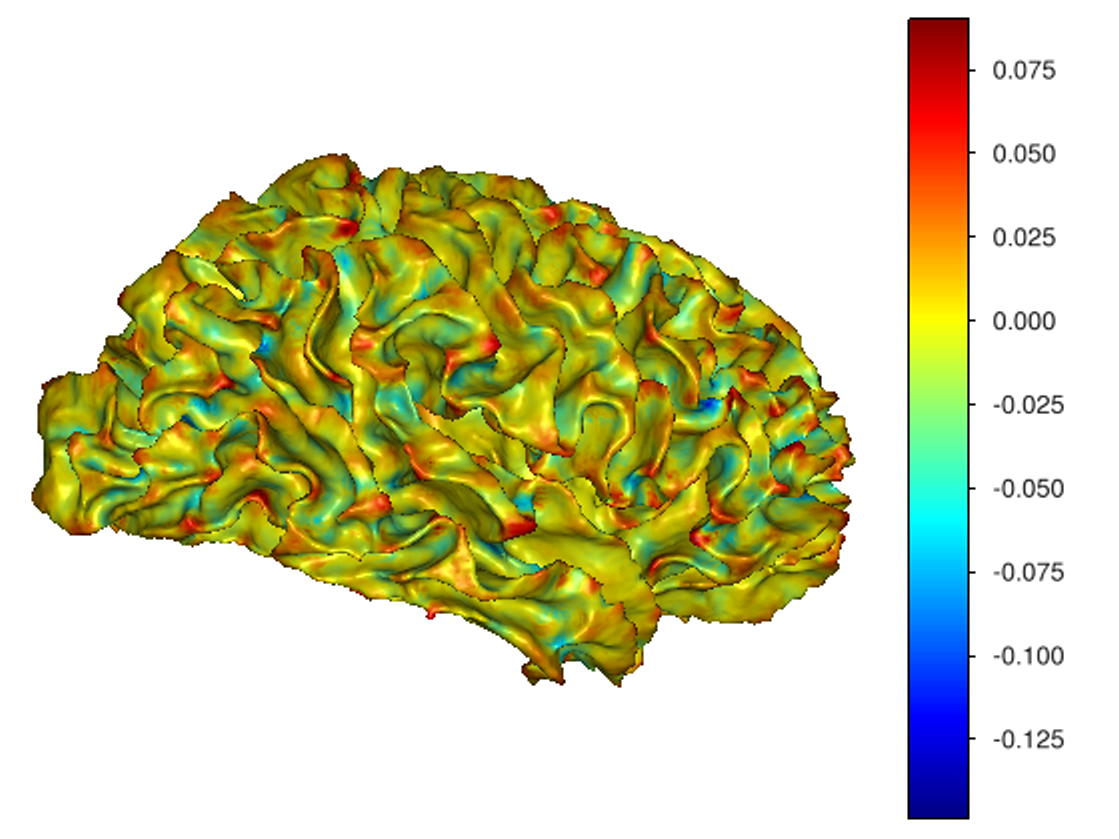
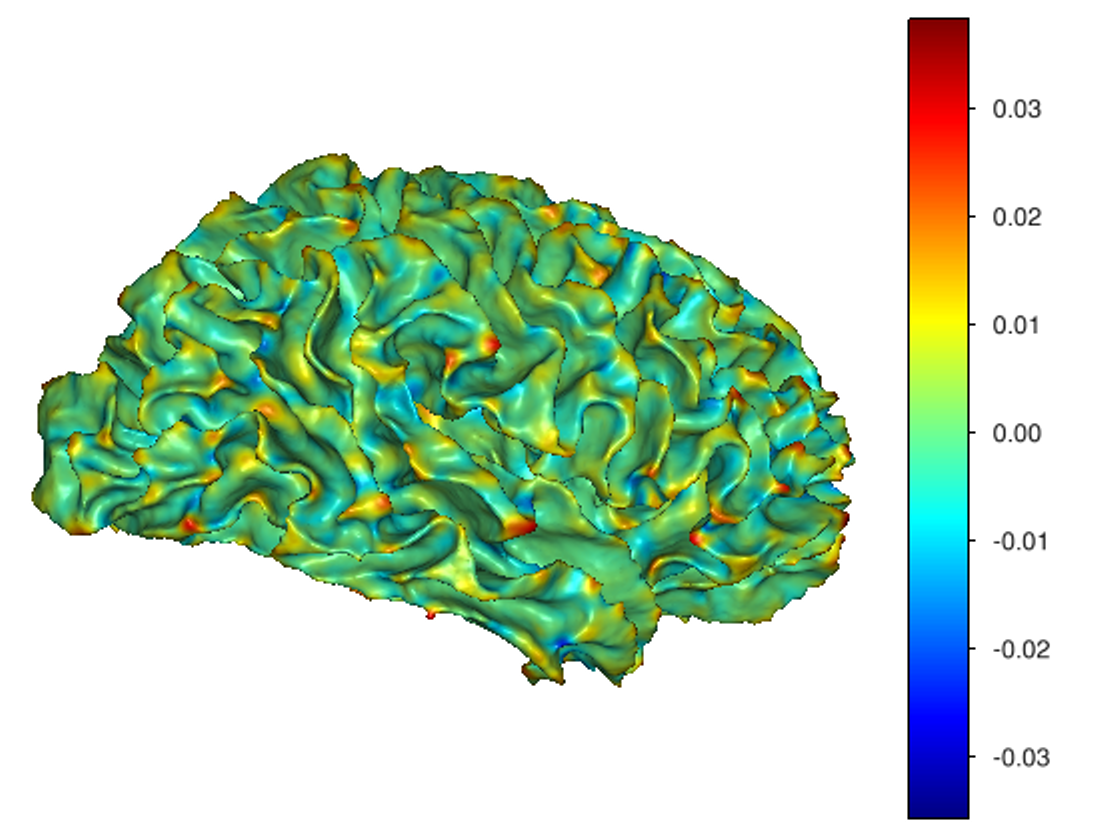
revisit Goldman's formulas

diff --git a/fast_Gaussian_curvature_3D.py b/fast_Gaussian_curvature_3D.py
@@ -110,6 +110,10 @@ def L_infinity_norm_grad(gx,gy,gz):
 def Gaussian_curvature(phi_grad,Ha):
 
     gx, gy, gz = phi_grad
+    norm = L2_norm_grad(gx,gy,gz)
+    gx /= norm
+    gy /= norm
+    gz /= norm
 
     gaussian_curv =  gx * (gx*Ha[0,0,...]+gy*Ha[1,0,...]+gz*Ha[2,0,...]) + gy * (gx*Ha[0,1,...]+gy*Ha[1,1,...]+gz*Ha[2,1,...])\
     + gz * (gx*Ha[0,2,...]+gy*Ha[1,2,...]+gz*Ha[2,2,...])
@@ -128,7 +132,7 @@ def Hessian_adjoint_curvature(phi_grad,Ha):
     curvature =  gx * (gx*Ha[0,0,...]+gy*Ha[1,0,...]+gz*Ha[2,0,...]) + gy * (gx*Ha[0,1,...]+gy*Ha[1,1,...]+gz*Ha[2,1,...])\
     + gz * (gx*Ha[0,2,...]+gy*Ha[1,2,...]+gz*Ha[2,2,...])
     np.divide(curvature,L2_norm_grad(gx,gy,gz)**3,curvature)
-    #gaussian_filter(curvature, sigma=1, output=curvature)
+
 
     return curvature
 
@@ -222,18 +226,9 @@ def display_mesh(verts, faces, normals, texture, save_path):
 
 ###    Affect texture value to each vertex by spline interpolation, for the different modes as explained in: https://docs.scipy.org/doc/scipy/reference/generated/scipy.ndimage.map_coordinates.html
 
-# def texture_spline_interpolation3D(verts, texture):
-#
-#     val = np.zeros(verts[:,0].shape)
-#     map_coordinates(texture,[verts[:,0],verts[:,1],verts[:,2]],output=val,order=2, mode='nearest')
-#
-#     return val
-
 def texture_spline_interpolation3D(verts, texture):
 
-    #val = map_coordinates(texture,[verts[:,0],verts[:,1],verts[:,2]],order=2, mode='nearest')
-
-    return map_coordinates(texture,[verts[:,0],verts[:,1],verts[:,2]],order=2, mode='nearest')
+    return map_coordinates(texture,[verts[:,0],verts[:,1],verts[:,2]],order=3, mode='nearest')
 
 
 #### Affect texture value to each vertex by averaging neighbrhood information

diff --git a/Gauss_curv_4_Freesurfer_output.py b/Gauss_curv_4_Freesurfer_output.py
@@ -121,8 +121,8 @@ if __name__ == '__main__':
     ### Affect per-vertex curvature values, by interpolation
 
     #gaussian_curv = g3D.texture_nearest_neigh_interpolation3D(verts, Gaussian_curvature)
-    gaussian_curv = g3D.texture_mean_avg_interpolation3D(verts, Gaussian_curvature)
-    #gaussian_curv = g3D.texture_spline_interpolation3D(verts, Gaussian_curvature)
+    #gaussian_curv = g3D.texture_mean_avg_interpolation3D(verts, Gaussian_curvature)
+    gaussian_curv = g3D.texture_spline_interpolation3D(verts, Gaussian_curvature)
 
     verts = g3D.align_origin_back(verts,dx,dy,dz) ### Re-align origin "back" with the origin of the original image
 

diff --git a/fast_mean_curvature_3D.py b/fast_mean_curvature_3D.py
@@ -38,11 +38,15 @@ def mean_curvature(phi_grad,hessian):
 
     gx, gy, gz = phi_grad
 
+    norm = g3D.L2_norm_grad(gx,gy,gz)
+    gx /= norm
+    gy /= norm
+    gz /= norm
+
     mean_curv =  (gx * (gx*hessian[0,0,...]+gy*hessian[1,0,...]+gz*hessian[2,0,...]) + gy * (gx*hessian[0,1,...]+gy*hessian[1,1,...]+gz*hessian[2,1,...])\
     + gz * (gx*hessian[0,2,...]+gy*hessian[1,2,...]+gz*hessian[2,2,...])) - (g3D.L2_norm_grad(gx,gy,gz)**2 *  hessian_trace(hessian))
 
     np.divide(mean_curv,-2*g3D.L2_norm_grad(gx,gy,gz)**3,mean_curv)
-    #gaussian_filter(mean_curv, sigma=1, output=mean_curv)
 
     return mean_curv
 
